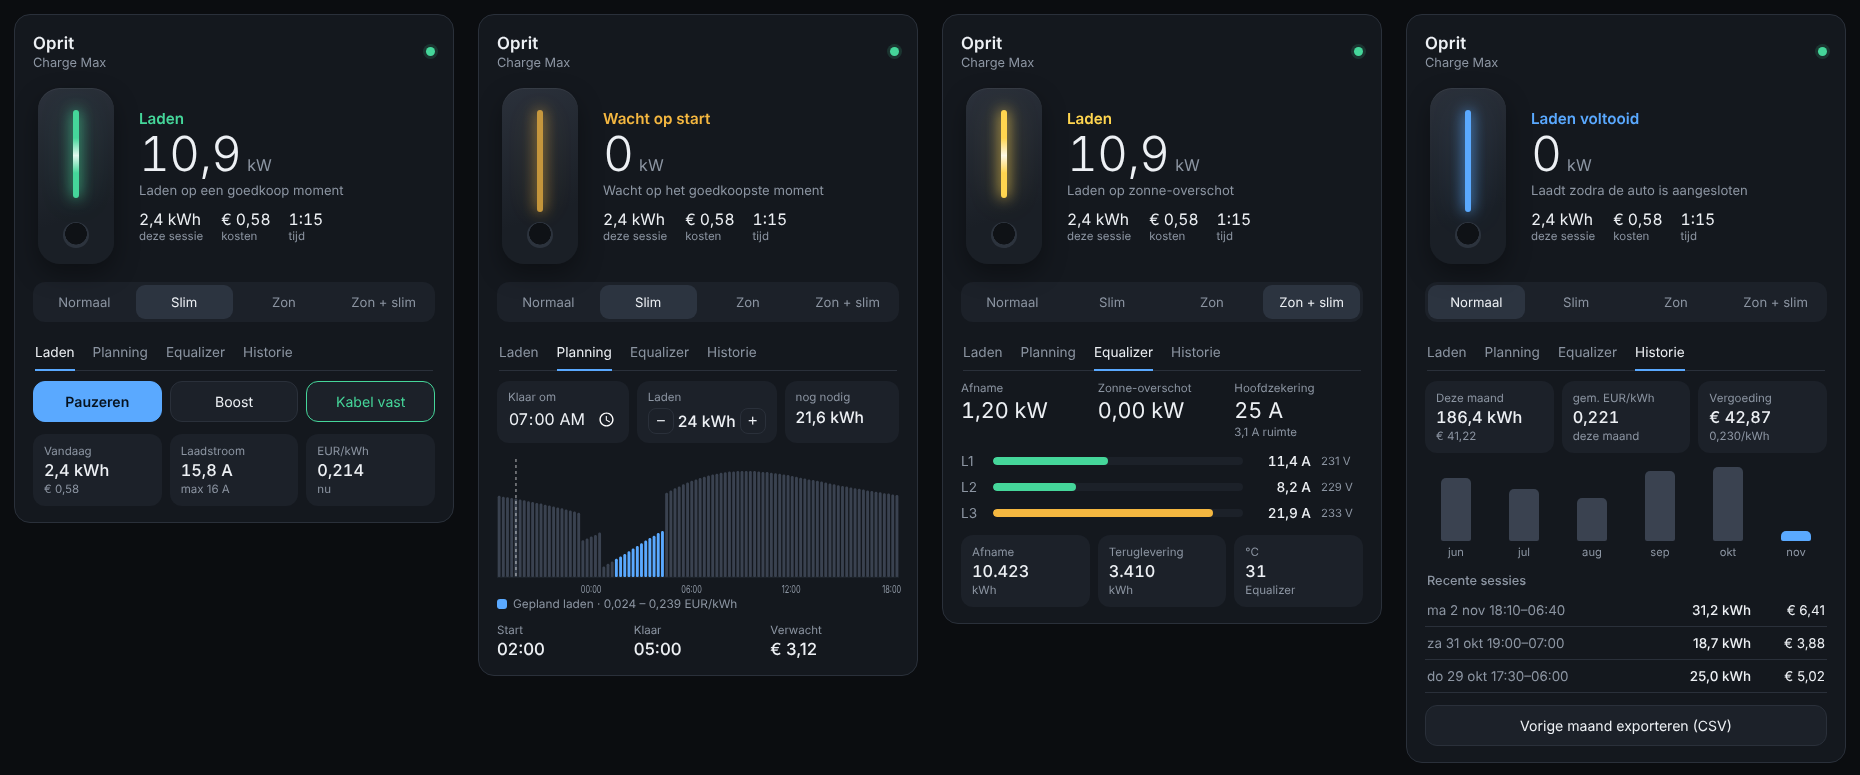
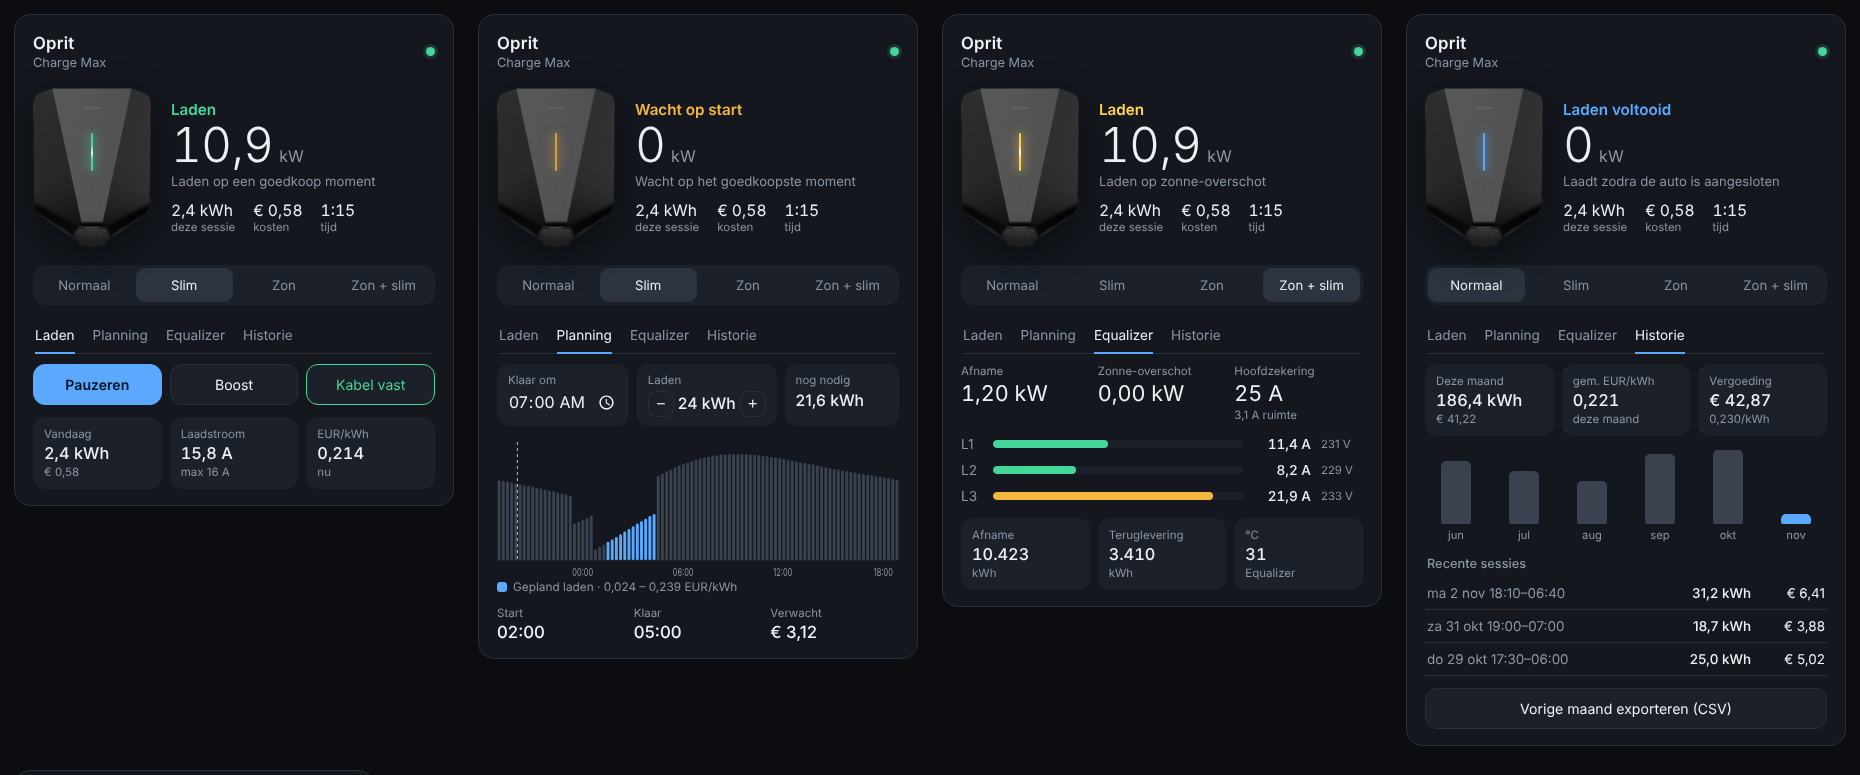
Card: real charger photo with animated light strip (1.1.0)
Claude-Session: https://claude.ai/code/session_014Qd4FS56ywvsr1bt8A5KLz

diff --git a/custom_components/easee_smart/frontend/easee-smart-card.js b/custom_components/easee_smart/frontend/easee-smart-card.js
@@ -1,6 +1,10 @@
 /* Easee Smart card — app-style view of an Easee charger, served by the easee_smart integration. */
 (() => {
-  const VERSION = "1.0.0";
+  const VERSION = "1.1.0";
+  // Photo of the charger, served next to this script by the integration.
+  const CHARGER_IMG = document.currentScript && document.currentScript.src
+    ? new URL("charger.webp", document.currentScript.src).href
+    : "/easee_smart/charger.webp";
 
   const I18N = {
     en: {
@@ -251,9 +255,8 @@
           </header>
 
           <section class="hero">
-            <div class="post" aria-hidden="true">
+            <div class="post" aria-hidden="true" style="background-image:url('${CHARGER_IMG}')">
               <div class="strip ${led.anim}"><i></i></div>
-              <div class="socket"></div>
             </div>
             <div class="readout">
               <div class="status">${esc(t.status[status] || status)}</div>
@@ -523,23 +526,22 @@
     .online { width:9px; height:9px; border-radius:50%; background:#59616D; }
     .online.on { background:#45D69A; box-shadow:0 0 0 3px rgba(69,214,154,.15); }
 
-    .hero { display:grid; grid-template-columns:86px 1fr; gap:20px; align-items:center; padding:6px 0 18px; }
+    .hero { display:grid; grid-template-columns:118px 1fr; gap:20px; align-items:center; padding:6px 0 18px; }
     .post {
-      position:relative; height:176px; width:76px; justify-self:center;
-      background:linear-gradient(160deg,#2B313B 0%,#1A1F26 70%); border-radius:22px;
-      box-shadow:inset 0 1px 0 rgba(255,255,255,.06), 0 10px 24px rgba(0,0,0,.35);
+      position:relative; width:118px; aspect-ratio:301 / 405; justify-self:center;
+      background:center / contain no-repeat;
+      filter:drop-shadow(0 12px 18px rgba(0,0,0,.45));
     }
+    /* sits exactly on the light strip of the photo */
     .strip {
-      position:absolute; left:50%; top:22px; bottom:52px; width:6px; transform:translateX(-50%);
-      border-radius:6px; background:var(--led); box-shadow:0 0 14px var(--led), 0 0 30px color-mix(in srgb, var(--led) 40%, transparent);
+      position:absolute; left:50%; top:28.4%; height:24.2%; width:1.8%; min-width:2px; transform:translateX(-50%);
+      border-radius:3px; background:var(--led); box-shadow:0 0 8px var(--led), 0 0 20px color-mix(in srgb, var(--led) 45%, transparent);
       overflow:hidden;
     }
     .strip i { position:absolute; left:0; right:0; height:40%; background:linear-gradient(to top, transparent, rgba(255,255,255,.85), transparent); opacity:0; }
     .strip.flow i { opacity:1; animation:flow 1.8s linear infinite; }
     .strip.breathe { animation:breathe 3.2s ease-in-out infinite; }
     .strip.blink { animation:blink 1s steps(2) infinite; }
-    .socket { position:absolute; left:50%; bottom:16px; width:26px; height:26px; transform:translateX(-50%); border-radius:50%;
-      background:radial-gradient(circle at 50% 45%, #0F1216 55%, #2C333D 57%); }
     @keyframes flow { from { bottom:-40%; } to { bottom:100%; } }
     @keyframes breathe { 0%,100% { opacity:.45; } 50% { opacity:1; } }
     @keyframes blink { 50% { opacity:.25; } }
@@ -625,8 +627,8 @@
     .sessions b { font-weight:500; }
 
     @container (max-width: 420px) {
-      .hero { grid-template-columns:64px 1fr; gap:14px; }
-      .post { width:58px; height:140px; border-radius:18px; }
+      .hero { grid-template-columns:88px 1fr; gap:14px; }
+      .post { width:88px; }
       .big { font-size:2.5rem; }
       .controls { grid-template-columns:1fr 1fr; }
       .controls .ctl:last-child { grid-column:1 / -1; }

diff --git a/custom_components/easee_smart/__init__.py b/custom_components/easee_smart/__init__.py
@@ -21,7 +21,7 @@ from homeassistant.helpers import config_validation as cv
 from homeassistant.helpers.typing import ConfigType
 
 from .const import (
-    CARD_FILE,
+    CARD_BASE,
     CARD_URL,
     DOMAIN,
     EASEE_DOMAIN,
@@ -105,10 +105,11 @@ async def async_setup(hass: HomeAssistant, config: ConfigType) -> bool:
 
 async def _async_register_card(hass: HomeAssistant) -> None:
     """Serve the card and load it in the frontend (no dashboard changes needed)."""
-    path = Path(__file__).parent / "frontend" / CARD_FILE
+    folder = Path(__file__).parent / "frontend"
     try:
+        # serves the card script and the charger image from one folder
         await hass.http.async_register_static_paths(
-            [StaticPathConfig(CARD_URL, str(path), cache_headers=False)]
+            [StaticPathConfig(CARD_BASE, str(folder), cache_headers=False)]
         )
     except RuntimeError:
         # already registered (e.g. after a reload)

diff --git a/custom_components/easee_smart/const.py b/custom_components/easee_smart/const.py
@@ -6,10 +6,10 @@ from typing import Final
 
 DOMAIN: Final = "easee_smart"
 EASEE_DOMAIN: Final = "easee"
-VERSION: Final = "1.0.0"
+VERSION: Final = "1.1.0"
 
-CARD_URL: Final = "/easee_smart/easee-smart-card.js"
-CARD_FILE: Final = "easee-smart-card.js"
+CARD_BASE: Final = "/easee_smart"
+CARD_URL: Final = f"{CARD_BASE}/easee-smart-card.js"
 
 # ---- config entry keys -------------------------------------------------------
 CONF_CHARGER_DEVICE: Final = "charger_device"
